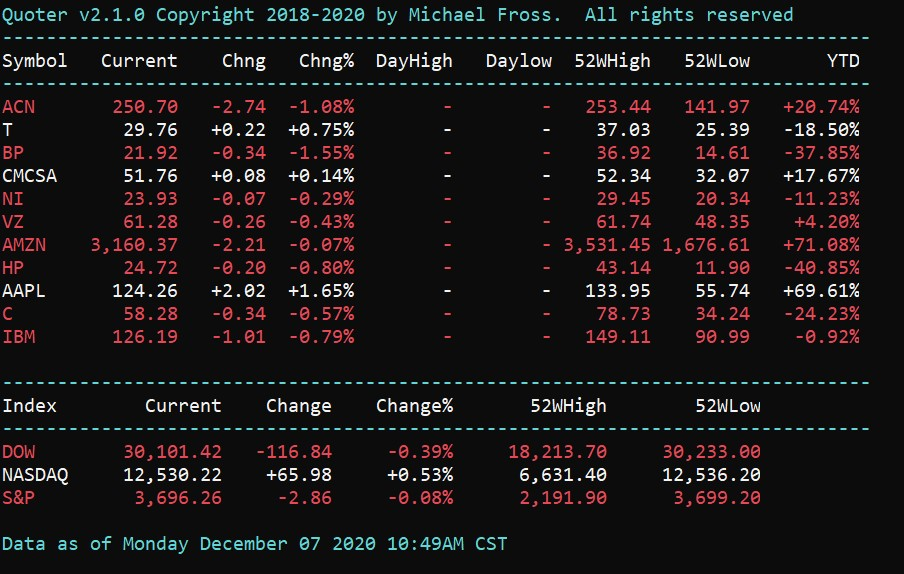
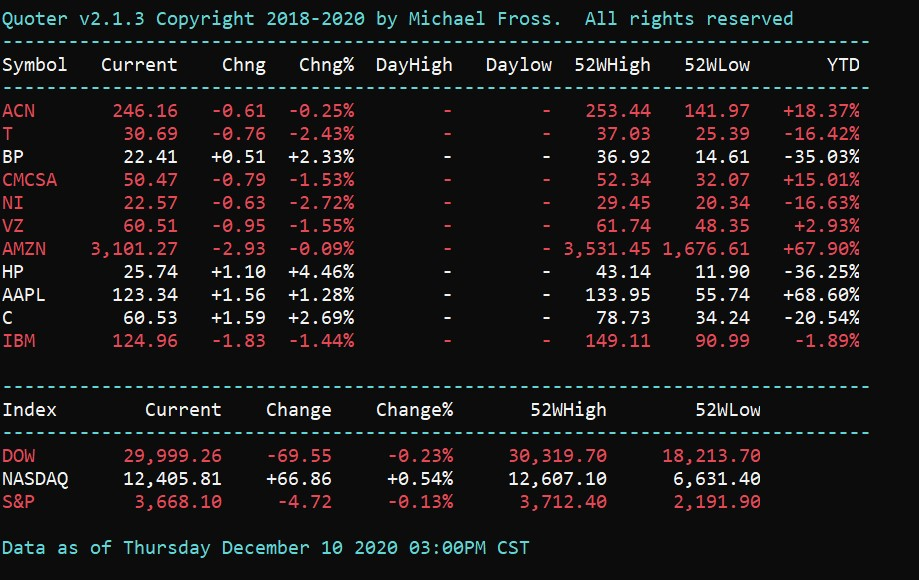
Added detailed quote (-d) information

diff --git a/src/main/java/org/fross/quoter/Main.java b/src/main/java/org/fross/quoter/Main.java
@@ -56,6 +56,7 @@ public class Main {
 		String latestTime = "None";
 		boolean exportFlag = false;
 		boolean trendFlag = false;
+		boolean detailedFlag = false;
 		FileExporter exporter = null;
 
 		// Process application level properties file
@@ -73,12 +74,17 @@ public class Main {
 		}
 
 		// Process Command Line Options
-		Getopt optG = new Getopt("quote", args, "Dtckx:h?v");
+		Getopt optG = new Getopt("quote", args, "Dtdckx:h?v");
 		while ((optionEntry = optG.getopt()) != -1) {
 			switch (optionEntry) {
 			// Turn on Debug Mode
 			case 'D':
 				Debug.enable();
+				break;
+
+			// Show detailed stock information
+			case 'd':
+				detailedFlag = true;
 				break;
 
 			// Show Stock Trending
@@ -169,69 +175,69 @@ public class Main {
 				Symbol symbolData = new Symbol(currentSymbol, Prefs.QueryString("iexcloudtoken"));
 
 				// Validate the provided quote is valid
-				if (symbolData.query("status").compareTo("Error") == 0) {
+				if (symbolData.get("status").compareTo("Error") == 0) {
 					// Display error and skip to the next iteration
-					Output.printColorln(Ansi.Color.BLUE, "'" + symbolData.query("symbol") + "' is invalid");
+					Output.printColorln(Ansi.Color.BLUE, "'" + symbolData.get("symbol") + "' is invalid");
 					continue;
 				}
 
 				// Format the Output into an array
 				try {
 					// Symbol
-					outString[0] = String.format("%-8s", symbolData.query("symbol"));
+					outString[0] = String.format("%-8s", symbolData.get("symbol"));
 
 					// Current
 					try {
-						outString[1] = String.format("%,8.2f", Float.valueOf(symbolData.query("latestPrice")));
+						outString[1] = String.format("%,8.2f", Float.valueOf(symbolData.get("latestPrice")));
 					} catch (NumberFormatException Ex) {
 						outString[1] = String.format("%8s", "-");
 					}
 
 					// Change Amount
 					try {
-						outString[2] = String.format("%+,8.2f", Float.valueOf(symbolData.query("change")));
+						outString[2] = String.format("%+,8.2f", Float.valueOf(symbolData.get("change")));
 					} catch (NumberFormatException Ex) {
 						outString[2] = String.format("%8s", "-");
 					}
 
 					// Change Percentage
 					try {
-						outString[3] = String.format("%+,7.2f%%", (Float.valueOf(symbolData.query("changePercent")) * 100));
+						outString[3] = String.format("%+,7.2f%%", (Float.valueOf(symbolData.get("changePercent")) * 100));
 					} catch (NumberFormatException Ex) {
 						outString[3] = String.format("%8s", "-");
 					}
 
 					// Day High
 					try {
-						outString[4] = String.format("%,9.2f", Float.valueOf(symbolData.query("high")));
+						outString[4] = String.format("%,9.2f", Float.valueOf(symbolData.get("high")));
 					} catch (NumberFormatException Ex) {
 						outString[4] = String.format("%9s", "-");
 					}
 
 					// Day Low
 					try {
-						outString[5] = String.format("%,9.2f", Float.valueOf(symbolData.query("low")));
+						outString[5] = String.format("%,9.2f", Float.valueOf(symbolData.get("low")));
 					} catch (NumberFormatException Ex) {
 						outString[5] = String.format("%9s", "-");
 					}
 
 					// 52 Week High
 					try {
-						outString[6] = String.format("%,9.2f", Float.valueOf(symbolData.query("week52High")));
+						outString[6] = String.format("%,9.2f", Float.valueOf(symbolData.get("week52High")));
 					} catch (NumberFormatException Ex) {
 						outString[6] = String.format("%9s", "-");
 					}
 
 					// 52 Week Low
 					try {
-						outString[7] = String.format("%,9.2f", Float.valueOf(symbolData.query("week52Low")));
+						outString[7] = String.format("%,9.2f", Float.valueOf(symbolData.get("week52Low")));
 					} catch (NumberFormatException Ex) {
 						outString[7] = String.format("%9s", "-");
 					}
 
 					// Year to date
 					try {
-						outString[8] = String.format("%+,9.2f%%", (Float.valueOf(symbolData.query("ytdChange")) * 100));
+						outString[8] = String.format("%+,9.2f%%", (Float.valueOf(symbolData.get("ytdChange")) * 100));
 					} catch (NumberFormatException Ex) {
 						outString[8] = String.format("%9s", "-");
 					}
@@ -243,7 +249,7 @@ public class Main {
 				// Determine the color based on the change amount
 				Ansi.Color outputColor = Ansi.Color.WHITE;
 				try {
-					if (Float.valueOf(symbolData.query("change")) < 0) {
+					if (Float.valueOf(symbolData.get("change")) < 0) {
 						outputColor = Ansi.Color.RED;
 					}
 
@@ -258,7 +264,7 @@ public class Main {
 
 				// Set the latest time for output later. Since they should all be the same, just keep that last
 				// symbol's data
-				latestTime = symbolData.query("latestUpdate");
+				latestTime = symbolData.get("latestUpdate");
 
 				// Start a new line for the next security
 				Output.println("");
@@ -330,14 +336,36 @@ public class Main {
 		// just index data is displayed, grab a security in order to get the date
 		if (symbolList.isEmpty()) {
 			Symbol getTime = new Symbol("IBM", Prefs.QueryString("iexcloudtoken"));
-			latestTime = getTime.query("latestUpdate");
+			latestTime = getTime.get("latestUpdate");
 		}
 		Output.printColorln(Ansi.Color.CYAN, "\nData as of " + latestTime);
 
-		// Flush and close export file if needed
-		if (exportFlag == true) {
-			exporter.close();
-			Output.printColor(Ansi.Color.CYAN, "\nData Export Complete to '" + exporter.queryExportFilename() + "'\n");
+		// Display detailed stock information if selected with the -d switch
+		if (detailedFlag == true && !symbolList.isEmpty()) {
+			final int HEADERWIDTH = 80;
+			String[] detailedFields = { "symbol", "companyName", "primaryExchange", "open", "openTime", "close", "closeTime", "high", "highTime", "low",
+					"lowTime", "latestPrice", "latestVolume", "previousClose", "previousVolume", "change", "changePercent", "agTotalVolume", "marketCap",
+					"peRatio", "week52High", "week52Low" };
+
+			Output.printColorln(Ansi.Color.WHITE, "\nDetailed Security Information:");
+
+			// Loop through each symbol and show the detailed display
+			for (String symb : symbolList) {
+				// Create the symbol data object
+				Symbol symbolData = new Symbol(symb, Prefs.QueryString("iexcloudtoken"));
+
+				// Display Header
+				Output.printColorln(Ansi.Color.CYAN, "-".repeat(HEADERWIDTH));
+				Output.printColorln(Ansi.Color.YELLOW, symb.toUpperCase() + " / " + symbolData.get("companyName"));
+				Output.printColorln(Ansi.Color.CYAN, "-".repeat(HEADERWIDTH));
+
+				// Loop through each detailed field and display it
+				for (String field : detailedFields) {
+					Output.printColorln(Ansi.Color.WHITE, " " + String.format("%-16s", field) + " " + symbolData.get(field));
+				}
+
+				Output.println("");
+			}
 		}
 
 		// Display trending data if -t was provided and there is at least one symbol
@@ -347,6 +375,11 @@ public class Main {
 			}
 		}
 
-	}
+		// Flush and close export file if needed
+		if (exportFlag == true) {
+			exporter.close();
+			Output.printColor(Ansi.Color.CYAN, "\nData Export Complete to '" + exporter.queryExportFilename() + "'\n");
+		}
 
+	}
 }

diff --git a/src/main/java/org/fross/quoter/Help.java b/src/main/java/org/fross/quoter/Help.java
@@ -27,6 +27,7 @@
 
 package org.fross.quoter;
 
+import org.fross.library.Format;
 import org.fross.library.Output;
 import org.fusesource.jansi.Ansi;
 
@@ -37,28 +38,36 @@ import org.fusesource.jansi.Ansi;
  *
  */
 public class Help {
+	static final int HEADERWIDTH = 72;
+
 	/**
 	 * Display(): Prints help in color using the JCDP library in the output module.
 	 */
 	public static void Display() {
-		Output.printColorln(Ansi.Color.CYAN, "\n+----------------------------------------------------------------------+");
-		Output.printColorln(Ansi.Color.CYAN, "+                       Quoter v" + Main.VERSION + "  Help                       +");
-		Output.printColorln(Ansi.Color.CYAN, "+      " + Main.COPYRIGHT + "      +");
-		Output.printColorln(Ansi.Color.CYAN, "+----------------------------------------------------------------------+");
-		Output.printColorln(Ansi.Color.CYAN, "         Quoter is a tool to display stock quotes and index data");
-		Output.printColorln(Ansi.Color.CYAN, "                    https://github.com/frossm/quoter\n");
+		Output.printColorln(Ansi.Color.CYAN, "\n+" + "-".repeat(HEADERWIDTH - 2) + "+");
+		Output.printColorln(Ansi.Color.CYAN, "+" + Format.CenterText(HEADERWIDTH - 2, "Quoter  v" + Main.VERSION) + "+");
+		Output.printColorln(Ansi.Color.CYAN, "+" + Format.CenterText(HEADERWIDTH - 2, Main.COPYRIGHT) + "+");
+		Output.printColorln(Ansi.Color.CYAN, "+" + "-".repeat(HEADERWIDTH - 2) + "+");
+		Output.printColorln(Ansi.Color.CYAN, Format.CenterText(HEADERWIDTH - 2, "Quoter is a tool to display stock quotes and index data"));
+		Output.printColorln(Ansi.Color.CYAN, Format.CenterText(HEADERWIDTH - 2, "https://github.com/frossm/quoter") + "\n");
 
-		Output.printColorln(Ansi.Color.YELLOW, "Command Line Options:");
-		Output.printColorln(Ansi.Color.WHITE, " -c        Configure the IEXCloud secret key. See link above for details.");
-		Output.printColorln(Ansi.Color.WHITE, " -t        Include a 3 month historical trend");
-		Output.printColorln(Ansi.Color.WHITE, " -x <file> Export results into the specified file in CSV format");
-		Output.printColorln(Ansi.Color.WHITE, " -k        Display the IEXCloud secret key being used");
-		Output.printColorln(Ansi.Color.WHITE, " -D        Start in debug mode and display developer information");
-		Output.printColorln(Ansi.Color.WHITE, " -v        Display program version and exit");
-		Output.printColorln(Ansi.Color.WHITE, " -? | -h   Display this help information");
+		Output.printColorln(Ansi.Color.WHITE, "Command Line Options");
 
-		Output.printColorln(Ansi.Color.YELLOW, "\nNote:");
-		Output.printColorln(Ansi.Color.WHITE, " - Quoter data is sourced from IEXCloud.io.  You'll need at least the free account");
+		Output.printColorln(Ansi.Color.YELLOW, "\nConfiguration:");
+		Output.printColorln(Ansi.Color.WHITE, "  -c        Configure the IEXCloud secret key. See link above for details.");
+		Output.printColorln(Ansi.Color.WHITE, "  -k        Display the IEXCloud secret key being used");
+
+		Output.printColorln(Ansi.Color.YELLOW, "\nSecurity Information:");
+		Output.printColorln(Ansi.Color.WHITE, "  -d        Display more detailed security information");
+		Output.printColorln(Ansi.Color.WHITE, "  -t        Include a 3 month historical trend");
+
+		Output.printColorln(Ansi.Color.YELLOW, "\nMisc:");
+		Output.printColorln(Ansi.Color.WHITE, "  -D        Start in debug mode and display developer information");
+		Output.printColorln(Ansi.Color.WHITE, "  -v        Display program version and exit");
+		Output.printColorln(Ansi.Color.WHITE, "  -? | -h   Display this help information");
+
+		Output.printColorln(Ansi.Color.YELLOW, "\nNotes:");
+		Output.printColorln(Ansi.Color.WHITE, " - Quoter data is sourced from IEXCloud.io. You'll need minimally a free account");
 		Output.printColorln(Ansi.Color.WHITE, " - The Index data is pulled from a financial website\n");
 	}
 }

diff --git a/src/main/java/org/fross/quoter/Symbol.java b/src/main/java/org/fross/quoter/Symbol.java
@@ -35,6 +35,7 @@ import java.util.List;
 import java.util.Map;
 
 import org.fross.library.Debug;
+import org.fross.library.Format;
 import org.fross.library.Output;
 import org.fusesource.jansi.Ansi;
 
@@ -54,12 +55,12 @@ public class Symbol {
 	}
 
 	/**
-	 * query(): Returns security
+	 * get(): Returns security detail based on passed field
 	 * 
 	 * @param field
 	 * @return
 	 */
-	protected String query(String field) {
+	protected String get(String field) {
 		try {
 			return this.symbolData.get(field);
 		} catch (Exception ex) {
@@ -70,11 +71,27 @@ public class Symbol {
 	}
 
 	/**
-	 * queryAllFieldNames(): Return an array of all of the keys in the HashMap
+	 * put(): Update a value in the objects symbolData HashMap
+	 * 
+	 * @param field
+	 * @param value
+	 * @return
+	 */
+	protected boolean put(String field, String value) {
+		try {
+			symbolData.put(field, value);
+		} catch (Exception ex) {
+			return false;
+		}
+		return true;
+	}
+
+	/**
+	 * getAllFieldNames(): Return an array of all of the keys in the HashMap
 	 * 
 	 * @return
 	 */
-	protected List<String> queryAllFieldNames() {
+	protected List<String> getAllFieldNames() {
 		List<String> returnList = new ArrayList<String>();
 
 		for (String i : this.symbolData.keySet()) {
@@ -103,6 +120,17 @@ public class Symbol {
 		}
 
 		return (returnString);
+	}
+
+	/**
+	 * epochTime2String(): Take a string and return a human readable date string
+	 * 
+	 * @param epochTime
+	 * @return
+	 */
+	protected static String epochTime2String(String epochTime) {
+		String result = String.format("%.0f", Double.parseDouble(epochTime));
+		return (epochTime2String(Long.parseLong(result)));
 	}
 
 	/**
@@ -158,15 +186,25 @@ public class Symbol {
 				}
 			}
 
-			// Convert latest date to a readable string and replace the value in the map
+			// Process the time fields to be human readable
 			try {
-				String dateString = String.format("%.0f", Double.parseDouble(returnData.get("latestUpdate")));
-				dateString = epochTime2String(Long.parseLong(dateString));
-				returnData.put("latestUpdate", dateString);
-
-			} catch (NullPointerException Ex) {
-				returnData.put("latestUpdate", "[Error Retrieving Date]");
+				if (returnData.get("latestUpdate") != "-")
+					returnData.put("latestUpdate", Symbol.epochTime2String(returnData.get("latestUpdate")));
+				if (returnData.get("openTime") != "-")
+					returnData.put("openTime", Symbol.epochTime2String(returnData.get("openTime")));
+				if (returnData.get("closeTime") != "-")
+					returnData.put("closeTime", Symbol.epochTime2String(returnData.get("closeTime")));
+				if (returnData.get("highTime") != "-")
+					returnData.put("highTime", Symbol.epochTime2String(returnData.get("highTime")));
+				if (returnData.get("lowTime") != "-")
+					returnData.put("lowTime", Symbol.epochTime2String(returnData.get("lowTime")));
+			} catch (Exception Ex) {
+				// Leave them as dashes if there is an error
 			}
+
+			// Process Market Cap into a more easily read string
+			if (returnData.get("marketCap") != "-")
+				returnData.put("marketCap", Format.Comma(Double.valueOf(returnData.get("marketCap")).longValue()));
 
 			// If we are in debug mode, display the values we are returning
 			if (Debug.query() == true) {

diff --git a/src/main/java/org/fross/quoter/HistoricalQuotes.java b/src/main/java/org/fross/quoter/HistoricalQuotes.java
@@ -156,11 +156,11 @@ public class HistoricalQuotes {
 		Symbol symbolData = new Symbol(symb, token);
 
 		// Display the symbol informational header
-		Output.printColorln(Ansi.Color.WHITE, "\n\n+" + "-".repeat(GRAPHWIDTH + 12) + "+");
-		Output.printColorln(Ansi.Color.YELLOW, symb.toUpperCase() + " / " + symbolData.query("companyName"));
-		Output.printColorln(Ansi.Color.YELLOW, "Exchange:    " + symbolData.query("primaryExchange"));
-		Output.printColorln(Ansi.Color.YELLOW, "PE Ratio:    " + symbolData.query("peRatio"));
-		Output.printColorln(Ansi.Color.YELLOW, "Market Cap:  " + Format.Comma(Double.valueOf(symbolData.query("marketCap")).longValue()));
+		Output.printColorln(Ansi.Color.WHITE, "\n\n+--Three Month Trend" + "-".repeat(GRAPHWIDTH - 7) + "+");
+		Output.printColorln(Ansi.Color.YELLOW, symb.toUpperCase() + " / " + symbolData.get("companyName"));
+		Output.printColorln(Ansi.Color.YELLOW, "Exchange:    " + symbolData.get("primaryExchange"));
+		Output.printColorln(Ansi.Color.YELLOW, "PE Ratio:    " + symbolData.get("peRatio"));
+		Output.printColorln(Ansi.Color.YELLOW, "Market Cap:  " + symbolData.get("marketCap"));
 		Output.printColorln(Ansi.Color.WHITE, "+" + "-".repeat(GRAPHWIDTH + 12) + "+\n");
 
 		// Display trending title bar

diff --git a/src/main/java/org/fross/quoter/FileExporter.java b/src/main/java/org/fross/quoter/FileExporter.java
@@ -86,7 +86,7 @@ public class FileExporter {
 	public boolean exportSecurities(Symbol symbolData) {
 		try {
 			// Export the header row
-			List<String> fields = symbolData.queryAllFieldNames();
+			List<String> fields = symbolData.getAllFieldNames();
 			if (this.exportSymbolHeaderWritten == false) {
 				for (String i : fields) {
 					exportFileFW.append(i + ",");
@@ -98,7 +98,7 @@ public class FileExporter {
 			// Export the symbol data
 			for (String i : fields) {
 				// If the data has a ',' in it remove it
-				String item = symbolData.query(i).replaceAll(",", "");
+				String item = symbolData.get(i).replaceAll(",", "");
 				exportFileFW.append(item + ",");
 			}
 			exportFileFW.append("\n");

diff --git a/src/main/java/org/fross/quoter/Index.java b/src/main/java/org/fross/quoter/Index.java
@@ -74,8 +74,8 @@ public class Index {
 			searchPatterns[1] = "\"last\":\"(.*?)\"";
 			searchPatterns[2] = "\"change\":\"(.*?)\"";
 			searchPatterns[3] = "\"change_pct\":\"(.*?)\"";
-			searchPatterns[4] = "'year low'.*?\\>(.*?)\\<";
-			searchPatterns[5] = "'year high'.*?\\>(.*?)\\<";
+			searchPatterns[4] = "'year high'.*?\\>(.*?)\\<";
+			searchPatterns[5] = "'year low'.*?\\>(.*?)\\<";
 
 			retArray[0] = idx;
 			for (int i = 1; i < searchPatterns.length; i++) {
